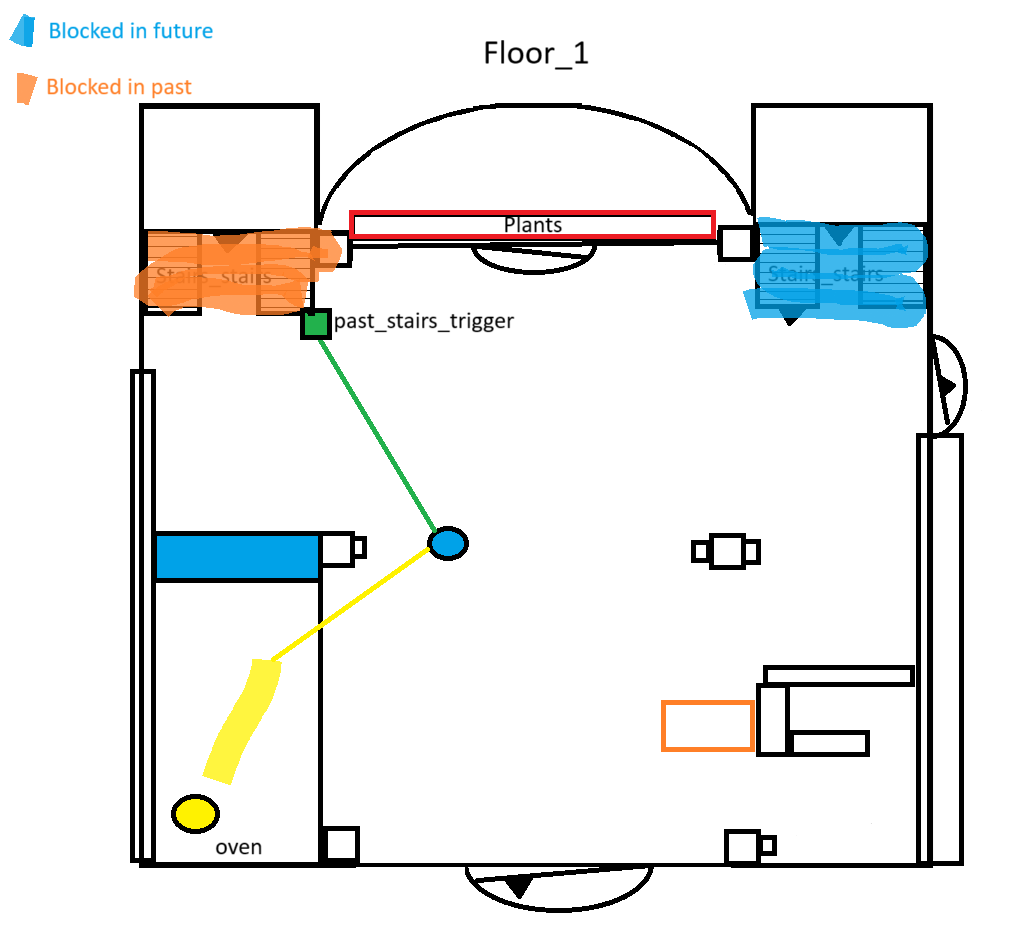
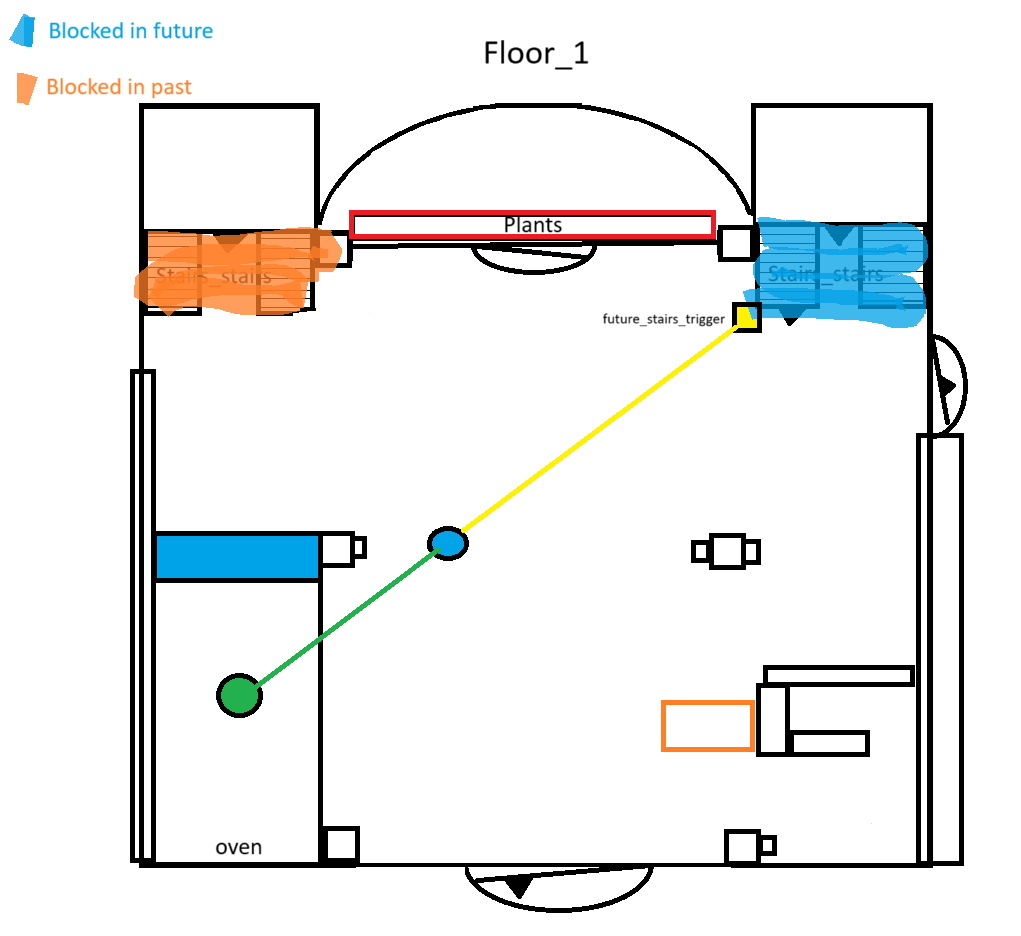
puzzle descriptions and visuals updated

diff --git a/Puzzles & Maps/puzzle_explanation.md b/Puzzles & Maps/puzzle_explanation.md
@@ -6,29 +6,23 @@
 ---
 
 # Puzzle 2:
-- Push yellow crystal out of oven
-- Shine light on blue crystal, turning yellow light green
-- Light hits past_stairs_trigger, opening blockade to floor_2 left side
+- Shine green crystal's light on blue crystal, turning green light yellow
+- Light hits future_stairs_trigger, opening blockade to floor_2 right side in future
 
 ---
 
 # Puzzle 3:
-- Go up to floor_2 left side, switch to future
-- Get to pink crystal and push/aim to white crystal on floor_2 right side
-- White light becomes pink and hits left_pink_trigger, opens lowest bookshelf on floor_2 left side
+- On floor_2 activate all triggers one by one
+- Every activated trigger lowers the bookshelf on bottom of right side a bit
+1. Black to yellow to gold
+1. Black to magenta to purple
+1. Yellow to cyan to green
+1. Yellow to magenta to red
+1. Cyan to black to blue
 
 ---
 
 # Puzzle 4:
-- Push purple crystal to shine on the white crystal on floor_2 right side middle block
-- Aim white crystal on the right side to middle block left side
-- Push and aim white crystal on floor_2 left side upper block to shine on left_purple_trigger
-- Aim pink crystal to shine on middle_pink_trigger, revealing bookshelf with triggers
-- When all triggers are ready, last room on floor_2 right side
-
----
-
-# Puzzle 5:
 - Get key from bottom room floor_2 right side, in future cuz bookshelf burned down
 - Key opens small bookshelf room on floor_1, red crystal within
 - Push red crystal to shine on plants in greenhouse
